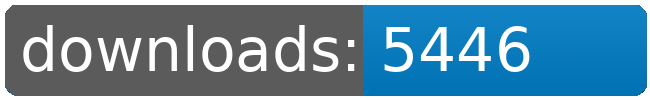
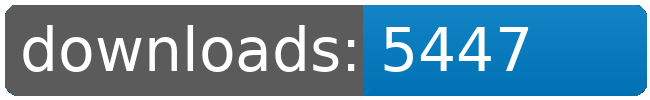
dl log written

Changed region(s): [[0.7692, 0.24, 0.8308, 0.72]]

diff --git a/README.md b/README.md
@@ -21,8 +21,8 @@
 		<td>5369</td>
 		<td>5395</td>
 		<td>5419</td>
-		<td>5446</td>
-		<td>+ 27</td>
+		<td>5447</td>
+		<td>+ 28</td>
 	</tr>
 	<tr>
 		<td>Factory.Outlets</td>
@@ -109,8 +109,8 @@
 		<td></td>
 		<td></td>
 		<td></td>
-		<td>43407</td>
-		<td>158</td>
+		<td>43408</td>
+		<td>159</td>
 	</tr>
 </table>
 </sub></sup>
@@ -157,8 +157,8 @@
 		<td>5369</td>
 		<td>5395</td>
 		<td>5419</td>
-		<td>5446</td>
-		<td>+ 27</td>
+		<td>5447</td>
+		<td>+ 28</td>
 	</tr>
 	<tr>
 		<td>Korunak.Defense.Drones</td>
@@ -223,8 +223,8 @@
 		<td></td>
 		<td></td>
 		<td></td>
-		<td>43407</td>
-		<td>158</td>
+		<td>43408</td>
+		<td>159</td>
 	</tr>
 </table>
 </sub></sup>
